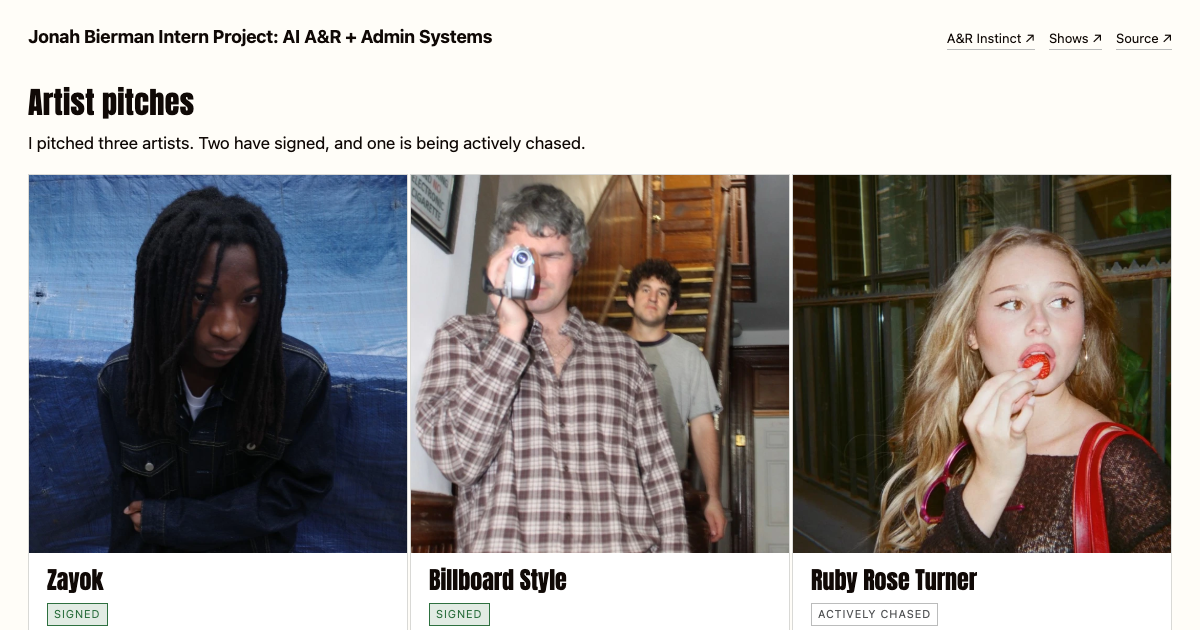
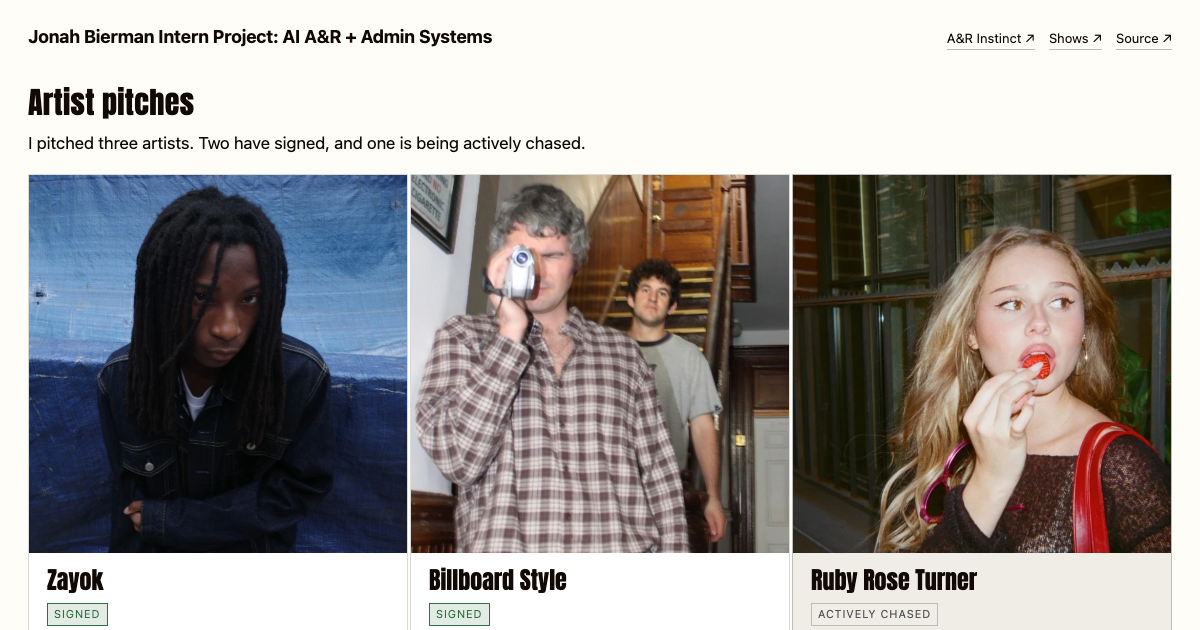
Darker card for Ruby Rose Turner; drop example label buttons

Changed region(s): [[0.6475, 0.8746, 0.9867, 1.0]]

diff --git a/index.html b/index.html
@@ -165,6 +165,7 @@
   @media (max-width: 760px) { .pitch-list img { aspect-ratio: 4 / 3; } }
   .pitch-list .who { display: block; font-family: var(--display); font-size: 24px; line-height: 1.1; white-space: normal; }
   .pitch-list .st { display: inline-block; margin-top: 10px; font-size: 11px; letter-spacing: 0.08em; text-transform: uppercase; padding: 2px 6px; border: 1px solid var(--green); color: var(--green); background: var(--tint); }
+  .pitch-list li.chasing { background: #efede6; border-color: var(--grey4); }
   .pitch-list .st.prog { border-color: var(--grey4); color: var(--muted); background: none; }
   .pitch-list .to { display: block; margin-top: 10px; font-size: 15px; }
   .pitch-list .how { display: block; margin-top: 4px; font-size: 14px; color: var(--muted); }
@@ -262,7 +263,7 @@
       <li><img src="img/billboard-style.webp" alt="Billboard Style" width="720" height="720" loading="lazy">
         <span class="who">Billboard Style</span><span class="st">Signed</span>
         <span class="to">Agent: Greg Horbal</span><span class="how">Found by the A&amp;R Instinct scan, Aug 10</span></li>
-      <li><img src="img/ruby-rose-turner.webp" alt="Ruby Rose Turner" width="614" height="614" loading="lazy">
+      <li class="chasing"><img src="img/ruby-rose-turner.webp" alt="Ruby Rose Turner" width="614" height="614" loading="lazy">
         <span class="who">Ruby Rose Turner</span><span class="st prog">Actively chased</span>
         <span class="to">Agent: Zac Bluestone</span><span class="how">Personal connection</span></li>
     </ul>
@@ -358,10 +359,6 @@
       <label class="tiny" for="lm-q">Label</label>
       <input id="lm-q" type="search" list="lm-list" placeholder="Try Sub Pop" autocomplete="off">
       <datalist id="lm-list"></datalist>
-      <button type="button" data-try="Sub Pop">Sub Pop</button>
-      <button type="button" data-try="Dreamville Records">Dreamville</button>
-      <button type="button" data-try="Matador Records">Matador</button>
-      <button type="button" data-try="Fueled By Ramen">Fueled By Ramen</button>
     </div>
     <div class="lm-path" id="lm-path" aria-live="polite"></div>
     <div class="lm-grid" id="lm-grid"></div>
@@ -630,7 +627,6 @@ var ANN = [{"c": "New York", "d": "2027-05-14", "t": "19:00", "h": "76th Street"
     lmGrid.appendChild(col);
   });
   lmGrid.addEventListener("click", function(e){ var b=e.target.closest("button"); if(!b) return; lmQ.value=b.textContent; lmShow(b.textContent); });
-  document.querySelectorAll(".lm-ask button[data-try]").forEach(function(b){ b.addEventListener("click", function(){ lmQ.value=b.dataset.try; lmShow(b.dataset.try); }); });
   lmQ.addEventListener("input", function(){ lmShow(lmQ.value); });
   lmShow("Sub Pop"); lmQ.value="Sub Pop";
 
